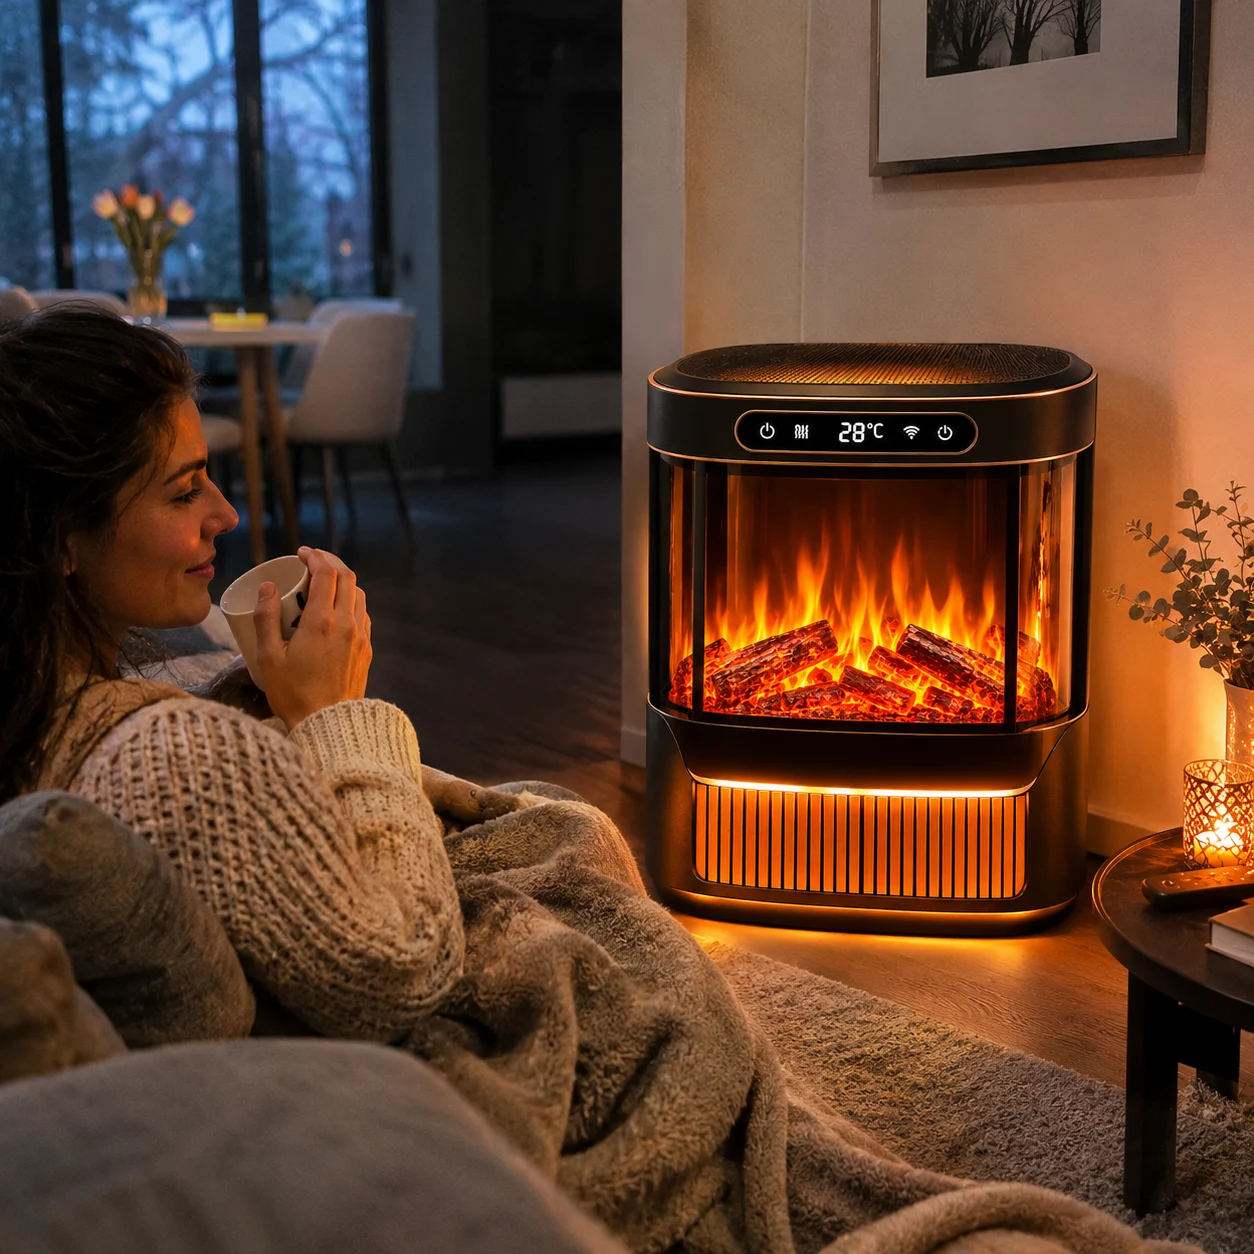
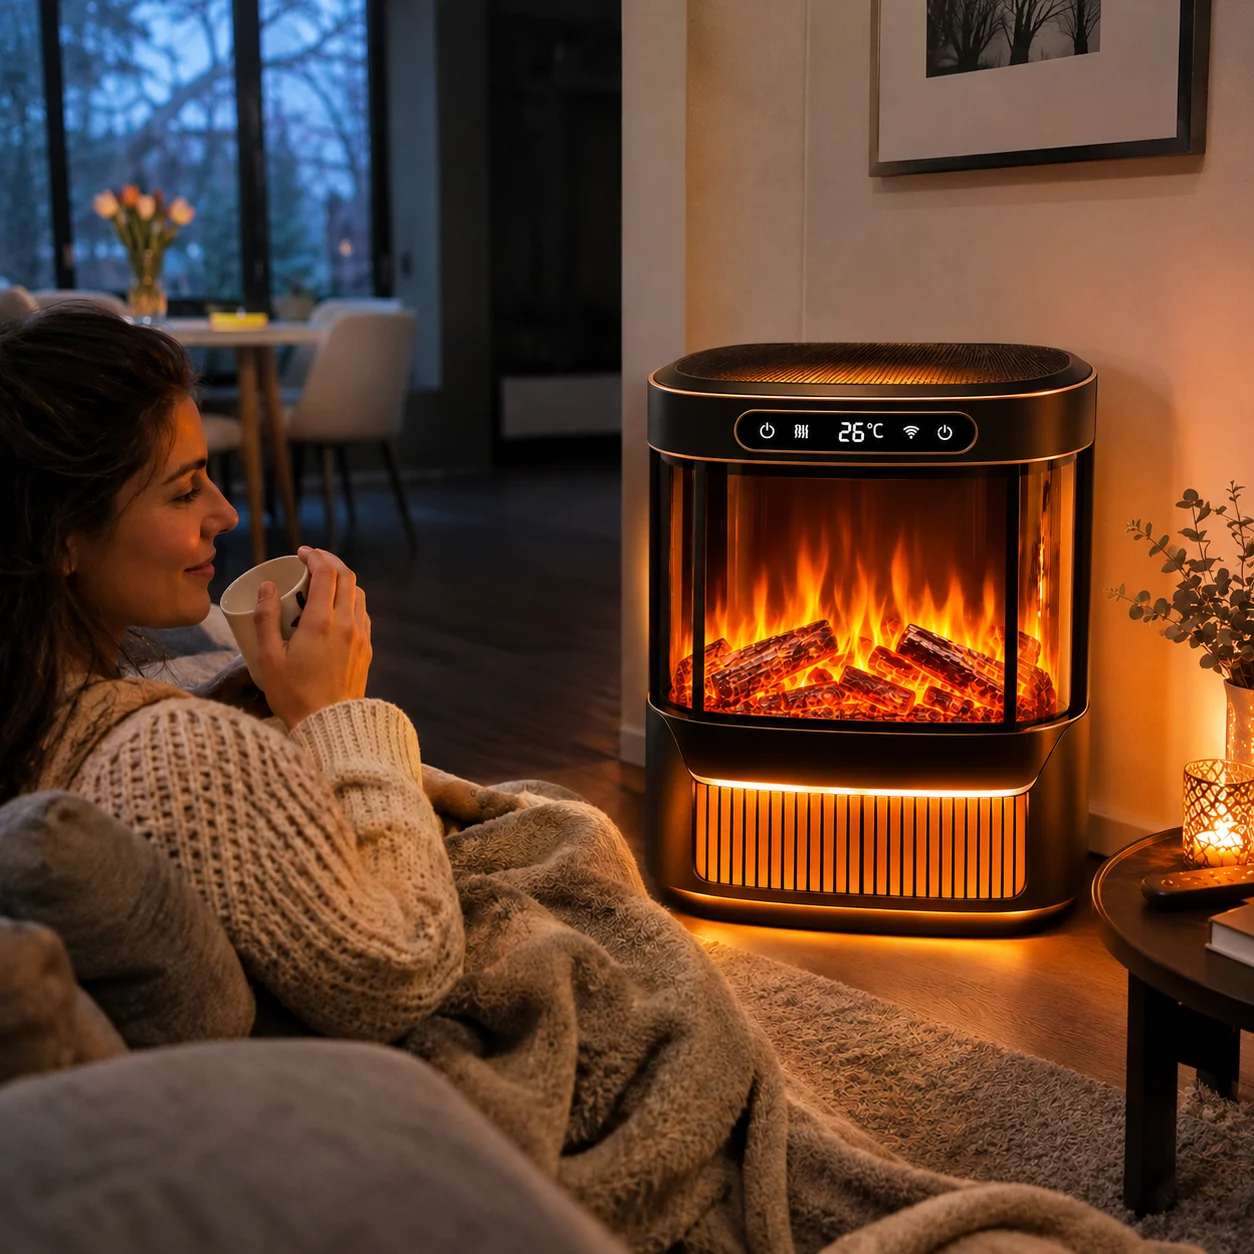
EMBERA: vary display temperature (24/26/28/30, reviews each different) + benefits section to 3 (headline/image/copy)

diff --git a/it/embera/landing.html b/it/embera/landing.html
@@ -28,7 +28,7 @@
  "@context": "https://schema.org",
  "@type": "Product",
  "name": "EMBERA™",
- "image": "https://devicefindhub.com/assets/img/products/embera/hero.webp?v=2",
+ "image": "https://devicefindhub.com/assets/img/products/embera/hero.webp?v=3",
  "description": "Stufa-camino elettrica con ceramica PTC da 2000 W che scalda la stanza in pochi minuti, con fiamma 3D realistica, senza opere né canna fumaria.",
  "brand": { "@type": "Brand", "name": "EMBERA" },
  "offers": {
@@ -121,7 +121,7 @@ window.SITE_CONFIG = {
 <h1>La stanza dove vivi diventa calda in pochi minuti, <span class="trim-green-highlight">non in due ore.</span></h1>
 <p class="trim-subtitle">EMBERA™ usa un <strong>elemento ceramico PTC da 2000 W</strong> per scaldare subito lo spazio intorno a te, mentre i termosifoni ci mettono 1-2 ore. <strong>Tre livelli di potenza</strong> e <strong>termostato regolabile</strong>: imposti il tepore giusto e te lo godi. Finalmente caldo dove ti serve, quando ti serve.</p>
 <div class="trim-hero__image mobile-only">
-<img alt="EMBERA™ — stufa-camino elettrica con fiamma 3D realistica" decoding="async" fetchpriority="high" height="1000" src="/assets/img/products/embera/hero.webp?v=2" width="1000"/>
+<img alt="EMBERA™ — stufa-camino elettrica con fiamma 3D realistica" decoding="async" fetchpriority="high" height="1000" src="/assets/img/products/embera/hero.webp?v=3" width="1000"/>
 </div>
 <div class="c4x-price-box">
 <div class="c4x-price-top">
@@ -142,7 +142,7 @@ window.SITE_CONFIG = {
 <a class="trim-cta" href="#FORM">ORDINA ORA</a>
 </div>
 <div class="trim-hero__image desktop-only">
-<img alt="EMBERA™ — stufa-camino elettrica con fiamma 3D realistica" decoding="async" fetchpriority="high" height="1000" src="/assets/img/products/embera/hero.webp?v=2" width="1000"/>
+<img alt="EMBERA™ — stufa-camino elettrica con fiamma 3D realistica" decoding="async" fetchpriority="high" height="1000" src="/assets/img/products/embera/hero.webp?v=3" width="1000"/>
 </div>
 </div>
 </section>
@@ -192,7 +192,7 @@ window.SITE_CONFIG = {
 <h2 class="aex-sec-h2">La sera accendi la caldaia per tutta la casa… e la stanza dove stai è ancora fredda?</h2>
 <div class="aex-prob__grid">
 <div class="aex-prob__img">
-<img alt="Persona infreddolita sotto la coperta sul divano, casa fredda d'inverno" decoding="async" height="1000" loading="lazy" src="/assets/img/products/embera/problema.webp?v=2" width="1000"/>
+<img alt="Persona infreddolita sotto la coperta sul divano, casa fredda d'inverno" decoding="async" height="1000" loading="lazy" src="/assets/img/products/embera/problema.webp?v=3" width="1000"/>
 </div>
 <div class="aex-prob__text"><p>D'inverno il rituale è sempre lo stesso: alzi la caldaia, aspetti, e dopo un'ora la casa è tiepida ma la bolletta no.</p>
 <ul class="aex-prob__list"><li><span class="x">🕐</span><div>I termosifoni scaldano <b>lenti</b>: aspetti 1-2 ore infreddolito prima di sentire davvero caldo.</div></li><li><span class="x">💸</span><div>Scaldi <b>tutta la casa</b> — anche le stanze vuote — per startene su un solo divano.</div></li><li><span class="x">🪵</span><div>Un camino vero? Opere, canna fumaria, legna e cenere: in affitto o in condominio è impossibile.</div></li></ul>
@@ -210,7 +210,7 @@ window.SITE_CONFIG = {
 </div>
 <div class="aex-mech__grid">
 <div class="aex-mech__img">
-<img alt="EMBERA collegata a una presa che scalda la stanza con la fiamma 3D accesa" decoding="async" height="1000" loading="lazy" src="/assets/img/products/embera/meccanismo.webp?v=2" width="1000"/>
+<img alt="EMBERA collegata a una presa che scalda la stanza con la fiamma 3D accesa" decoding="async" height="1000" loading="lazy" src="/assets/img/products/embera/meccanismo.webp?v=3" width="1000"/>
 </div>
 <div class="aex-mech__text">
 <p class="aex-mech__lead">La ceramica PTC da 2000 W spinge calore immediato dove ti serve, mentre la fiamma 3D accende l'atmosfera di un camino vero. Scegli la potenza, imposti la temperatura e il resto lo fa lui.</p>
@@ -220,67 +220,41 @@ window.SITE_CONFIG = {
 <div class="aex-cta-wrap"><a class="t77bn-cta" href="#FORM">ORDINA ORA</a></div>
 </div>
 </section>
-<section class="t77bn-sec">
-<div class="t77bn-wrap">
-<div class="t77bn-head">
+<section class="aex-ben">
+<style>
+.aex-ben{background:#fff;padding:58px 0;font-family:Arial,Helvetica,sans-serif;color:#151515}
+.aex-ben__head{text-align:center;max-width:720px;margin:0 auto 34px}
+.aex-ben__grid{display:grid;grid-template-columns:repeat(3,1fr);gap:26px}
+.aex-ben__card{display:flex;flex-direction:column;text-align:center}
+.aex-ben__card h3{font-size:20px;line-height:1.25;margin:0 0 14px;color:#151515}
+.aex-ben__img{margin:0 0 16px}
+.aex-ben__img img{width:100%;aspect-ratio:1/1;object-fit:cover;border-radius:16px;display:block}
+.aex-ben__card p{font-size:15.5px;line-height:1.6;color:#444;margin:0}
+@media (max-width:860px){.aex-ben__grid{grid-template-columns:1fr;gap:30px}.aex-ben{padding:44px 0}}
+</style>
+<div class="aex-wrap">
+<div class="aex-ben__head">
 <div class="t77bn-label">I tuoi vantaggi</div>
-<h2>Il tepore e l'atmosfera di un camino, senza legna, senza fumo e senza opere</h2>
+<h2 class="aex-sec-h2">Tre motivi per sceglierla</h2>
 </div>
-<div class="t77bn-rows">
-<div class="t77bn-row">
-<div class="t77bn-media">
-<img alt="2000 W di calore immediato nella stanza" decoding="async" height="400" loading="lazy" src="/assets/img/products/embera/benefit1.webp?v=2" width="400"/>
+<div class="aex-ben__grid">
+<div class="aex-ben__card">
+<h3>🔥 Caldo mirato in pochi minuti</h3>
+<div class="aex-ben__img"><img alt="EMBERA scalda in pochi minuti la stanza che vivi" decoding="async" height="800" loading="lazy" src="/assets/img/products/embera/benefit1.webp?v=3" width="800"/></div>
+<p>2000 W di ceramica PTC scaldano in pochi minuti <strong>solo la stanza che vivi</strong>, senza accendere la caldaia di tutta la casa. Tre livelli di potenza e termostato: il tepore giusto, dove ti serve.</p>
 </div>
-<div class="t77bn-c">
-<div class="t77bn-ic">⚡</div>
-<h3>2000 W di calore immediato</h3>
-<p>Potenza su 3 livelli (800/1500/2000 W): dai un tepore leggero o scaldi la stanza in pochi minuti, senza aspettare i termosifoni. La ceramica PTC rende il calore subito avvolgente.</p>
+<div class="aex-ben__card">
+<h3>🪵 L'atmosfera di un camino vero</h3>
+<div class="aex-ben__img"><img alt="Effetto fiamma 3D realistica di EMBERA" decoding="async" height="800" loading="lazy" src="/assets/img/products/embera/benefit3.webp?v=3" width="800"/></div>
+<p>Fiamma 3D realistica con luminosità regolabile e modalità <strong>solo fiamma</strong>: il camino che hai sempre voluto, tutto l'anno, senza fumo, cenere o legna.</p>
 </div>
-</div>
-<div class="t77bn-row t77bn-row--rev">
-<div class="t77bn-media">
-<img alt="Riscaldamento mirato: scalda solo la stanza che usi" decoding="async" height="600" loading="lazy" src="/assets/img/products/embera/benefit2.webp?v=2" width="600"/>
-</div>
-<div class="t77bn-c">
-<div class="t77bn-ic">🎯</div>
-<h3>Riscaldamento mirato, bolletta più leggera</h3>
-<p>Scaldi solo la stanza che vivi, non tutta la casa. Il termostato regolabile mantiene la temperatura e fa lavorare EMBERA solo quando serve: niente più caldaia accesa per riscaldare stanze vuote.</p>
+<div class="aex-ben__card">
+<h3>🔌 Zero installazione, anche in affitto</h3>
+<div class="aex-ben__img"><img alt="EMBERA si collega a una presa, portatile e senza opere" decoding="async" height="800" loading="lazy" src="/assets/img/products/embera/benefit5.webp?v=3" width="800"/></div>
+<p>Si collega a una presa: niente opere, niente canna fumaria, niente tecnico. Leggera da spostare di stanza in stanza e <strong>sicura con bambini e animali</strong> (niente fiamma vera).</p>
 </div>
 </div>
-<div class="t77bn-row">
-<div class="t77bn-media">
-<img alt="Effetto fiamma 3D realistica regolabile" decoding="async" height="400" loading="lazy" src="/assets/img/products/embera/benefit3.webp?v=2" width="400"/>
-</div>
-<div class="t77bn-c">
-<div class="t77bn-ic">🔥</div>
-<h3>Una fiamma 3D che sembra vera</h3>
-<p>Effetto fiamma realistico con luminosità regolabile e modalità “solo fiamma”: l'atmosfera del camino tutto l'anno, anche d'estate a calore spento. Niente fumo, niente cenere, niente legna da portare.</p>
-</div>
-</div>
-<div class="t77bn-row t77bn-row--rev">
-<div class="t77bn-media">
-<img alt="Sicura per bambini e animali, senza fiamma vera" decoding="async" height="400" loading="lazy" src="/assets/img/products/embera/benefit4.webp?v=2" width="400"/>
-</div>
-<div class="t77bn-c">
-<div class="t77bn-ic">🛡</div>
-<h3>Sicura per bambini e animali</h3>
-<p>Niente fiamma vera, niente rischio di ustioni. Spegnimento automatico in caso di surriscaldamento o ribaltamento: la lasci accesa in salotto o in cameretta senza pensieri.</p>
-</div>
-</div>
-<div class="t77bn-row">
-<div class="t77bn-media">
-<img alt="Zero installazione, leggera e portatile da spostare" decoding="async" height="600" loading="lazy" src="/assets/img/products/embera/benefit5.webp?v=2" width="600"/>
-</div>
-<div class="t77bn-c">
-<div class="t77bn-ic">🔌</div>
-<h3>Zero installazione, la sposti dove vuoi</h3>
-<p>Si collega a una normale presa: niente opere, niente canna fumaria, niente tecnico. Leggera e compatta, la porti dal salotto alla camera in un attimo. Col telecomando incluso regoli tutto dal divano.</p>
-</div>
-</div>
-</div>
-<div class="t77bn-cta-wrap">
-<a class="t77bn-cta" href="#FORM">ORDINA ORA</a>
-</div>
+<div class="aex-cta-wrap"><a class="t77bn-cta" href="#FORM">ORDINA ORA</a></div>
 </div>
 </section>
 <section class="aex-rev">
@@ -291,19 +265,19 @@ window.SITE_CONFIG = {
 </div>
 <div class="aex-rev__grid">
 <div class="aex-rev__card">
-<div class="aex-rev__photo"><img src="/assets/img/reviews/embera/chiara.webp?v=2" alt="EMBERA accesa in salotto, foto di una cliente" loading="lazy" width="1024" height="1024"></div>
+<div class="aex-rev__photo"><img src="/assets/img/reviews/embera/chiara.webp?v=3" alt="EMBERA accesa in salotto, foto di una cliente" loading="lazy" width="1024" height="1024"></div>
 <div class="aex-rev__stars">★★★★★</div>
 <p class="aex-rev__text">Vivo in affitto e non potevo mettere una stufa fissa. La attacco la sera in salotto ed è calda in pochi minuti — e la fiamma fa davvero atmosfera. Ho smesso di accendere la caldaia per tutta la casa.</p>
 <div class="aex-rev__name">Chiara M. <span class="v">✔ Acquisto verificato</span></div>
 </div>
 <div class="aex-rev__card">
-<div class="aex-rev__photo"><img src="/assets/img/reviews/embera/davide.webp?v=2" alt="EMBERA nello studio di casa, foto di un cliente" loading="lazy" width="1024" height="1024"></div>
+<div class="aex-rev__photo"><img src="/assets/img/reviews/embera/davide.webp?v=3" alt="EMBERA nello studio di casa, foto di un cliente" loading="lazy" width="1024" height="1024"></div>
 <div class="aex-rev__stars">★★★★★</div>
 <p class="aex-rev__text">Lo studio era sempre la stanza più fredda. Ora lavoro al caldo senza far salire la bolletta di tutta la casa: scaldo solo dove sto. Il telecomando è comodissimo, regolo tutto dalla scrivania.</p>
 <div class="aex-rev__name">Davide R. <span class="v">✔ Acquisto verificato</span></div>
 </div>
 <div class="aex-rev__card">
-<div class="aex-rev__photo"><img src="/assets/img/reviews/embera/franca.webp?v=2" alt="EMBERA con la fiamma 3D accesa in soggiorno" loading="lazy" width="1024" height="1024"></div>
+<div class="aex-rev__photo"><img src="/assets/img/reviews/embera/franca.webp?v=3" alt="EMBERA con la fiamma 3D accesa in soggiorno" loading="lazy" width="1024" height="1024"></div>
 <div class="aex-rev__stars">★★★★★</div>
 <p class="aex-rev__text">Volevo un camino da una vita, ma in condominio è impossibile. Questo è la cosa più simile: caldo vero e la fiamma che sembra accesa. E con i nipoti in giro mi sento tranquilla.</p>
 <div class="aex-rev__name">Franca P. <span class="v">✔ Acquisto verificato</span></div>
@@ -320,7 +294,7 @@ window.SITE_CONFIG = {
 <p>2 anni di garanzia + reso gratuito entro 30 giorni</p>
 </div>
 <div class="aex-kit__hero">
-<img alt="Il kit completo EMBERA™ nel tuo pacco" decoding="async" height="1000" loading="lazy" src="/assets/img/products/embera/hero.webp?v=2" width="1000"/>
+<img alt="Il kit completo EMBERA™ nel tuo pacco" decoding="async" height="1000" loading="lazy" src="/assets/img/products/embera/hero.webp?v=3" width="1000"/>
 </div>
 <div class="aex-kit__list"><div class="aex-kit__item"><span class="ic">🔥</span><div class="tx"><strong>1 Stufa-camino EMBERA™ 2000 W</strong><span>Ceramica PTC su 3 livelli: caldo mirato in pochi minuti nella stanza che vivi, con fiamma 3D realistica.</span></div></div><div class="aex-kit__item"><span class="ic">🎚</span><div class="tx"><strong>Termostato regolabile</strong><span>Imposti la temperatura e la mantiene, consumando solo il necessario.</span></div></div><div class="aex-kit__item"><span class="ic">🪵</span><div class="tx"><strong>Effetto fiamma 3D + modalità solo-fiamma</strong><span>L'atmosfera di un camino vero, con luminosità regolabile, anche a calore spento tutto l'anno.</span></div></div><div class="aex-kit__item"><span class="ic">🎮</span><div class="tx"><strong>Telecomando (INCLUSO <em>GRATIS</em>)</strong><span>Regoli potenza, fiamma e temperatura comodamente dal divano.</span></div></div><div class="aex-kit__item"><span class="ic">🛡</span><div class="tx"><strong>Doppia sicurezza</strong><span>Spegnimento automatico anti-surriscaldamento e anti-ribaltamento: sicura con bambini e animali.</span></div></div><div class="aex-kit__item"><span class="ic">🔌</span><div class="tx"><strong>Cavo per presa standard</strong><span>Si collega a una normale presa 230V: nessun impianto dedicato, nessun elettricista.</span></div></div><div class="aex-kit__item"><span class="ic">📖</span><div class="tx"><strong>Manuale in italiano</strong><span>Pronta all'uso: la attacchi alla presa e accendi, senza complicazioni.</span></div></div><div class="aex-kit__item"><span class="ic">🛡</span><div class="tx"><strong>2 anni di garanzia + reso gratuito 30 giorni</strong><span>La provi a casa tua senza rischi: se non ti convince, la restituisci gratis entro 30 giorni.</span></div></div></div>
 <div class="aex-cta-wrap"><a class="t77bn-cta" href="#FORM">ORDINA ORA</a></div>
